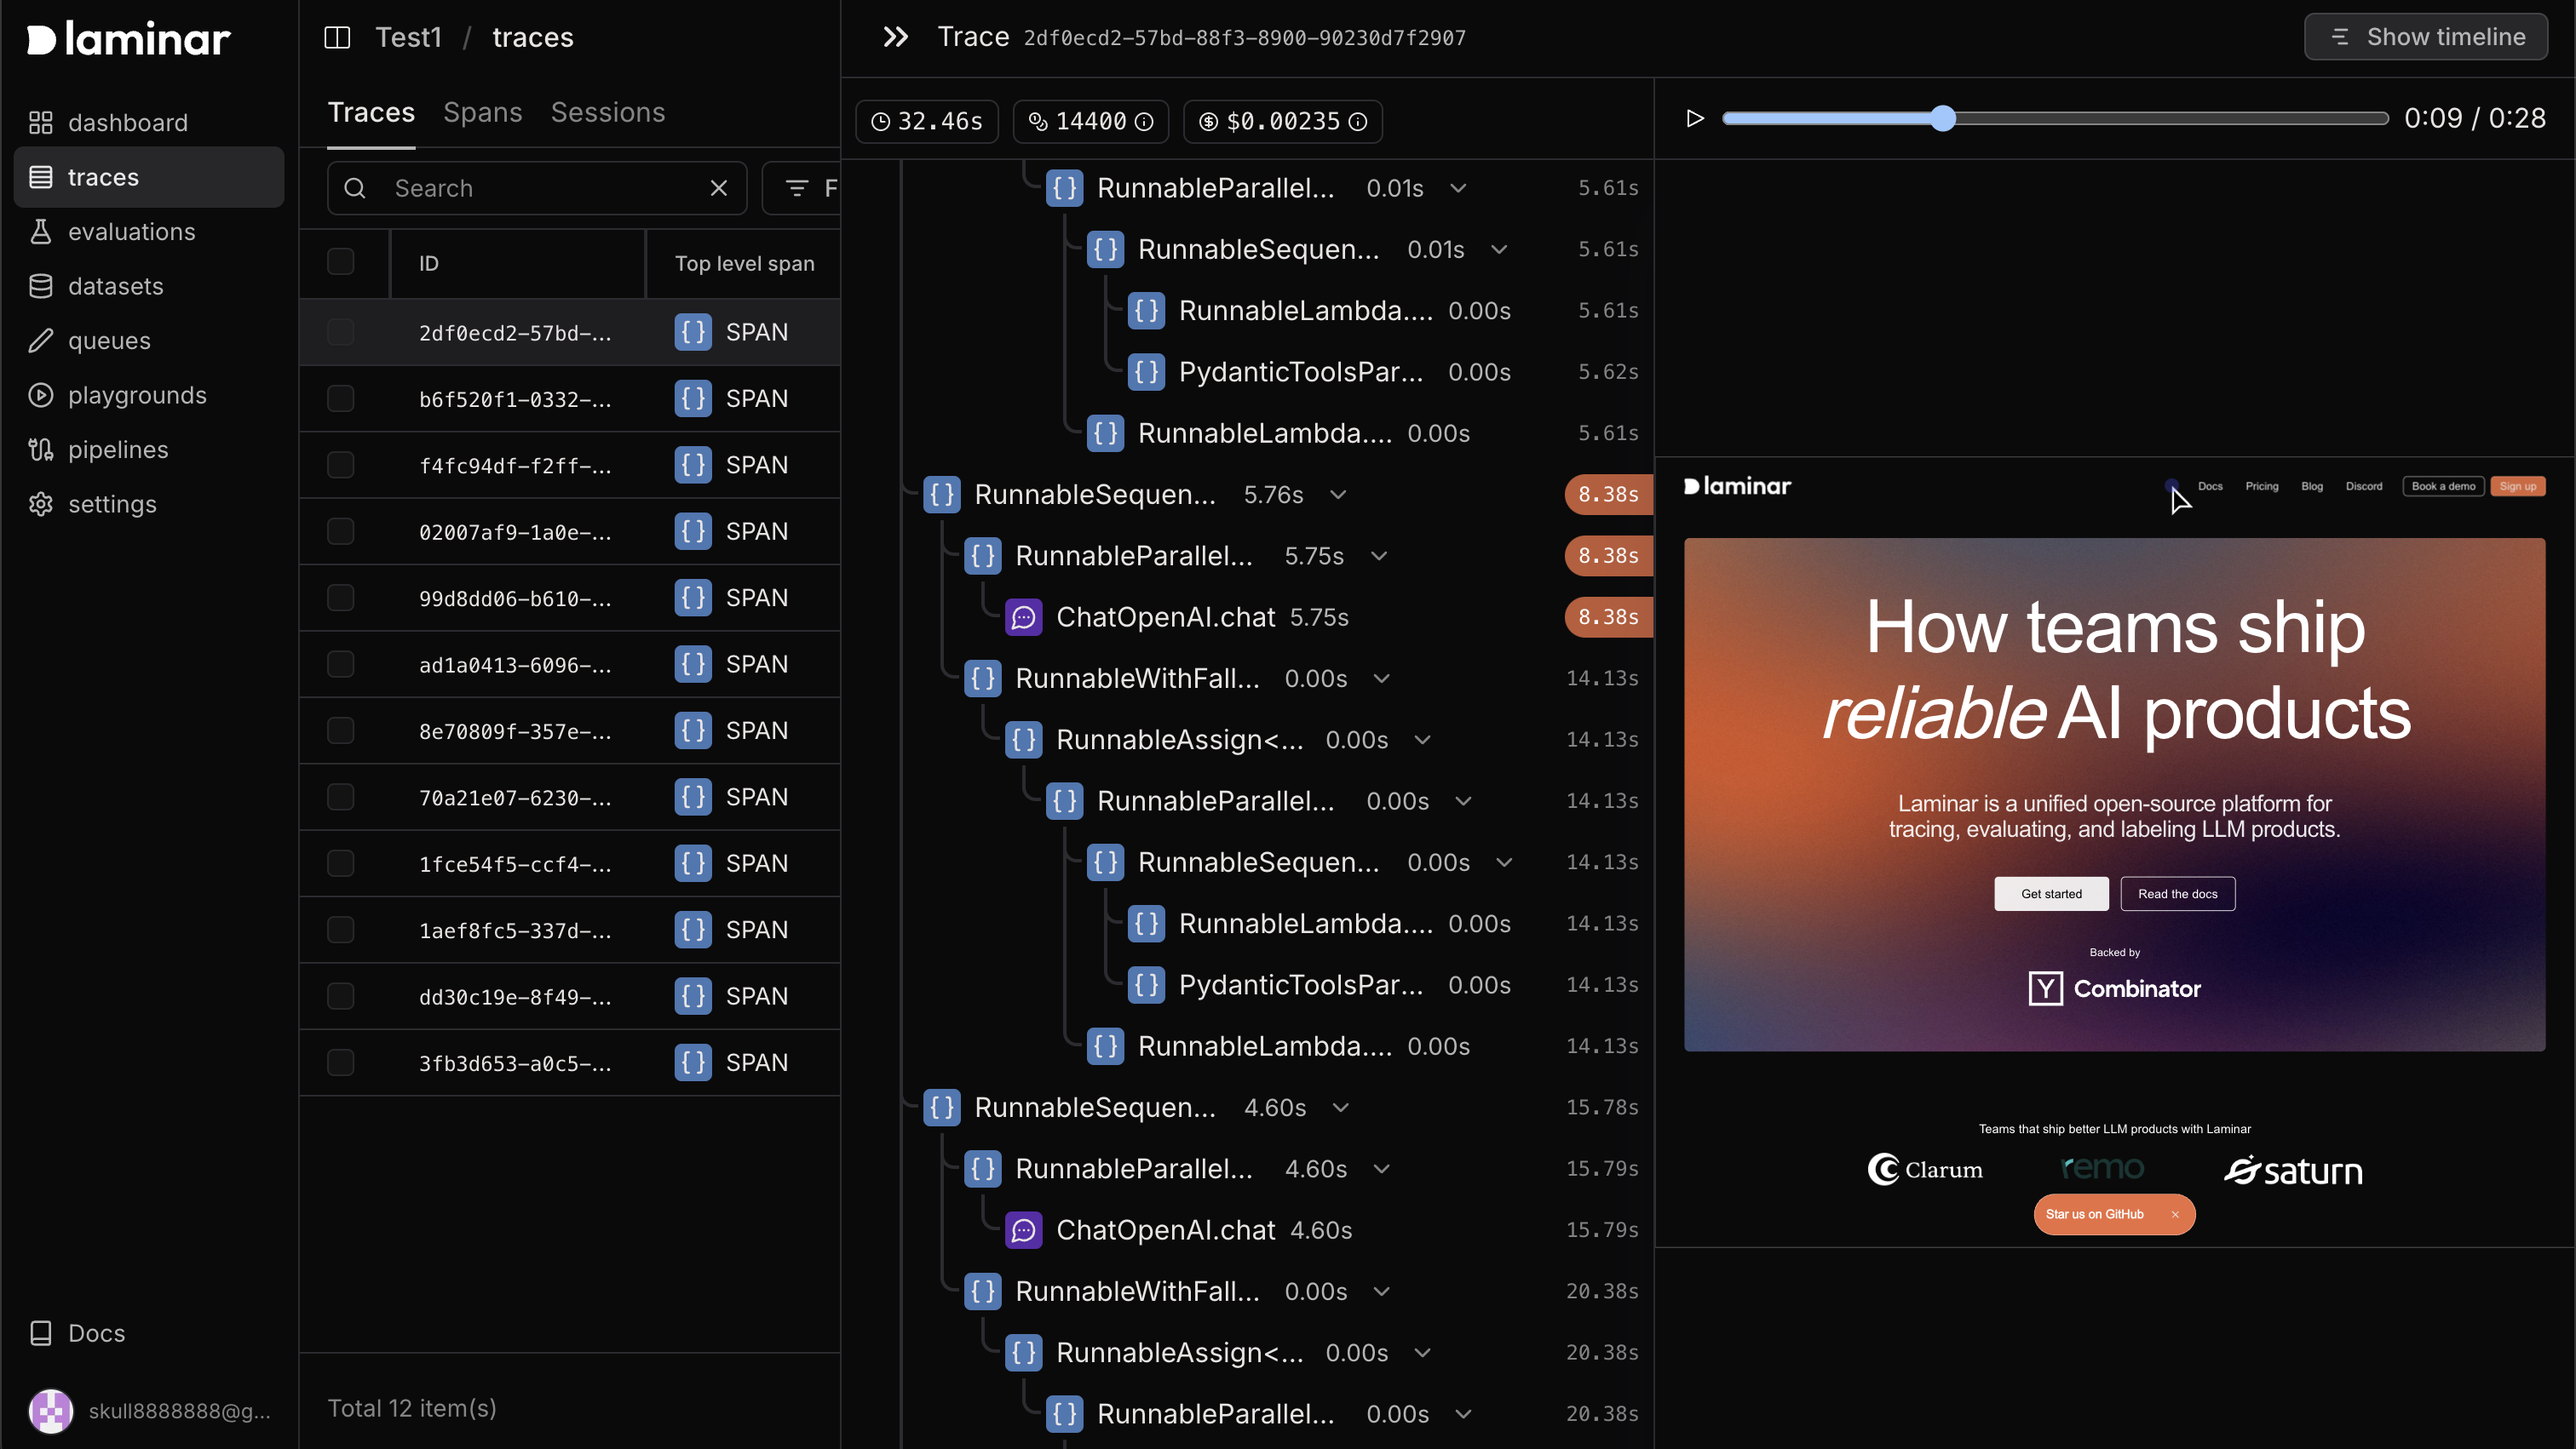
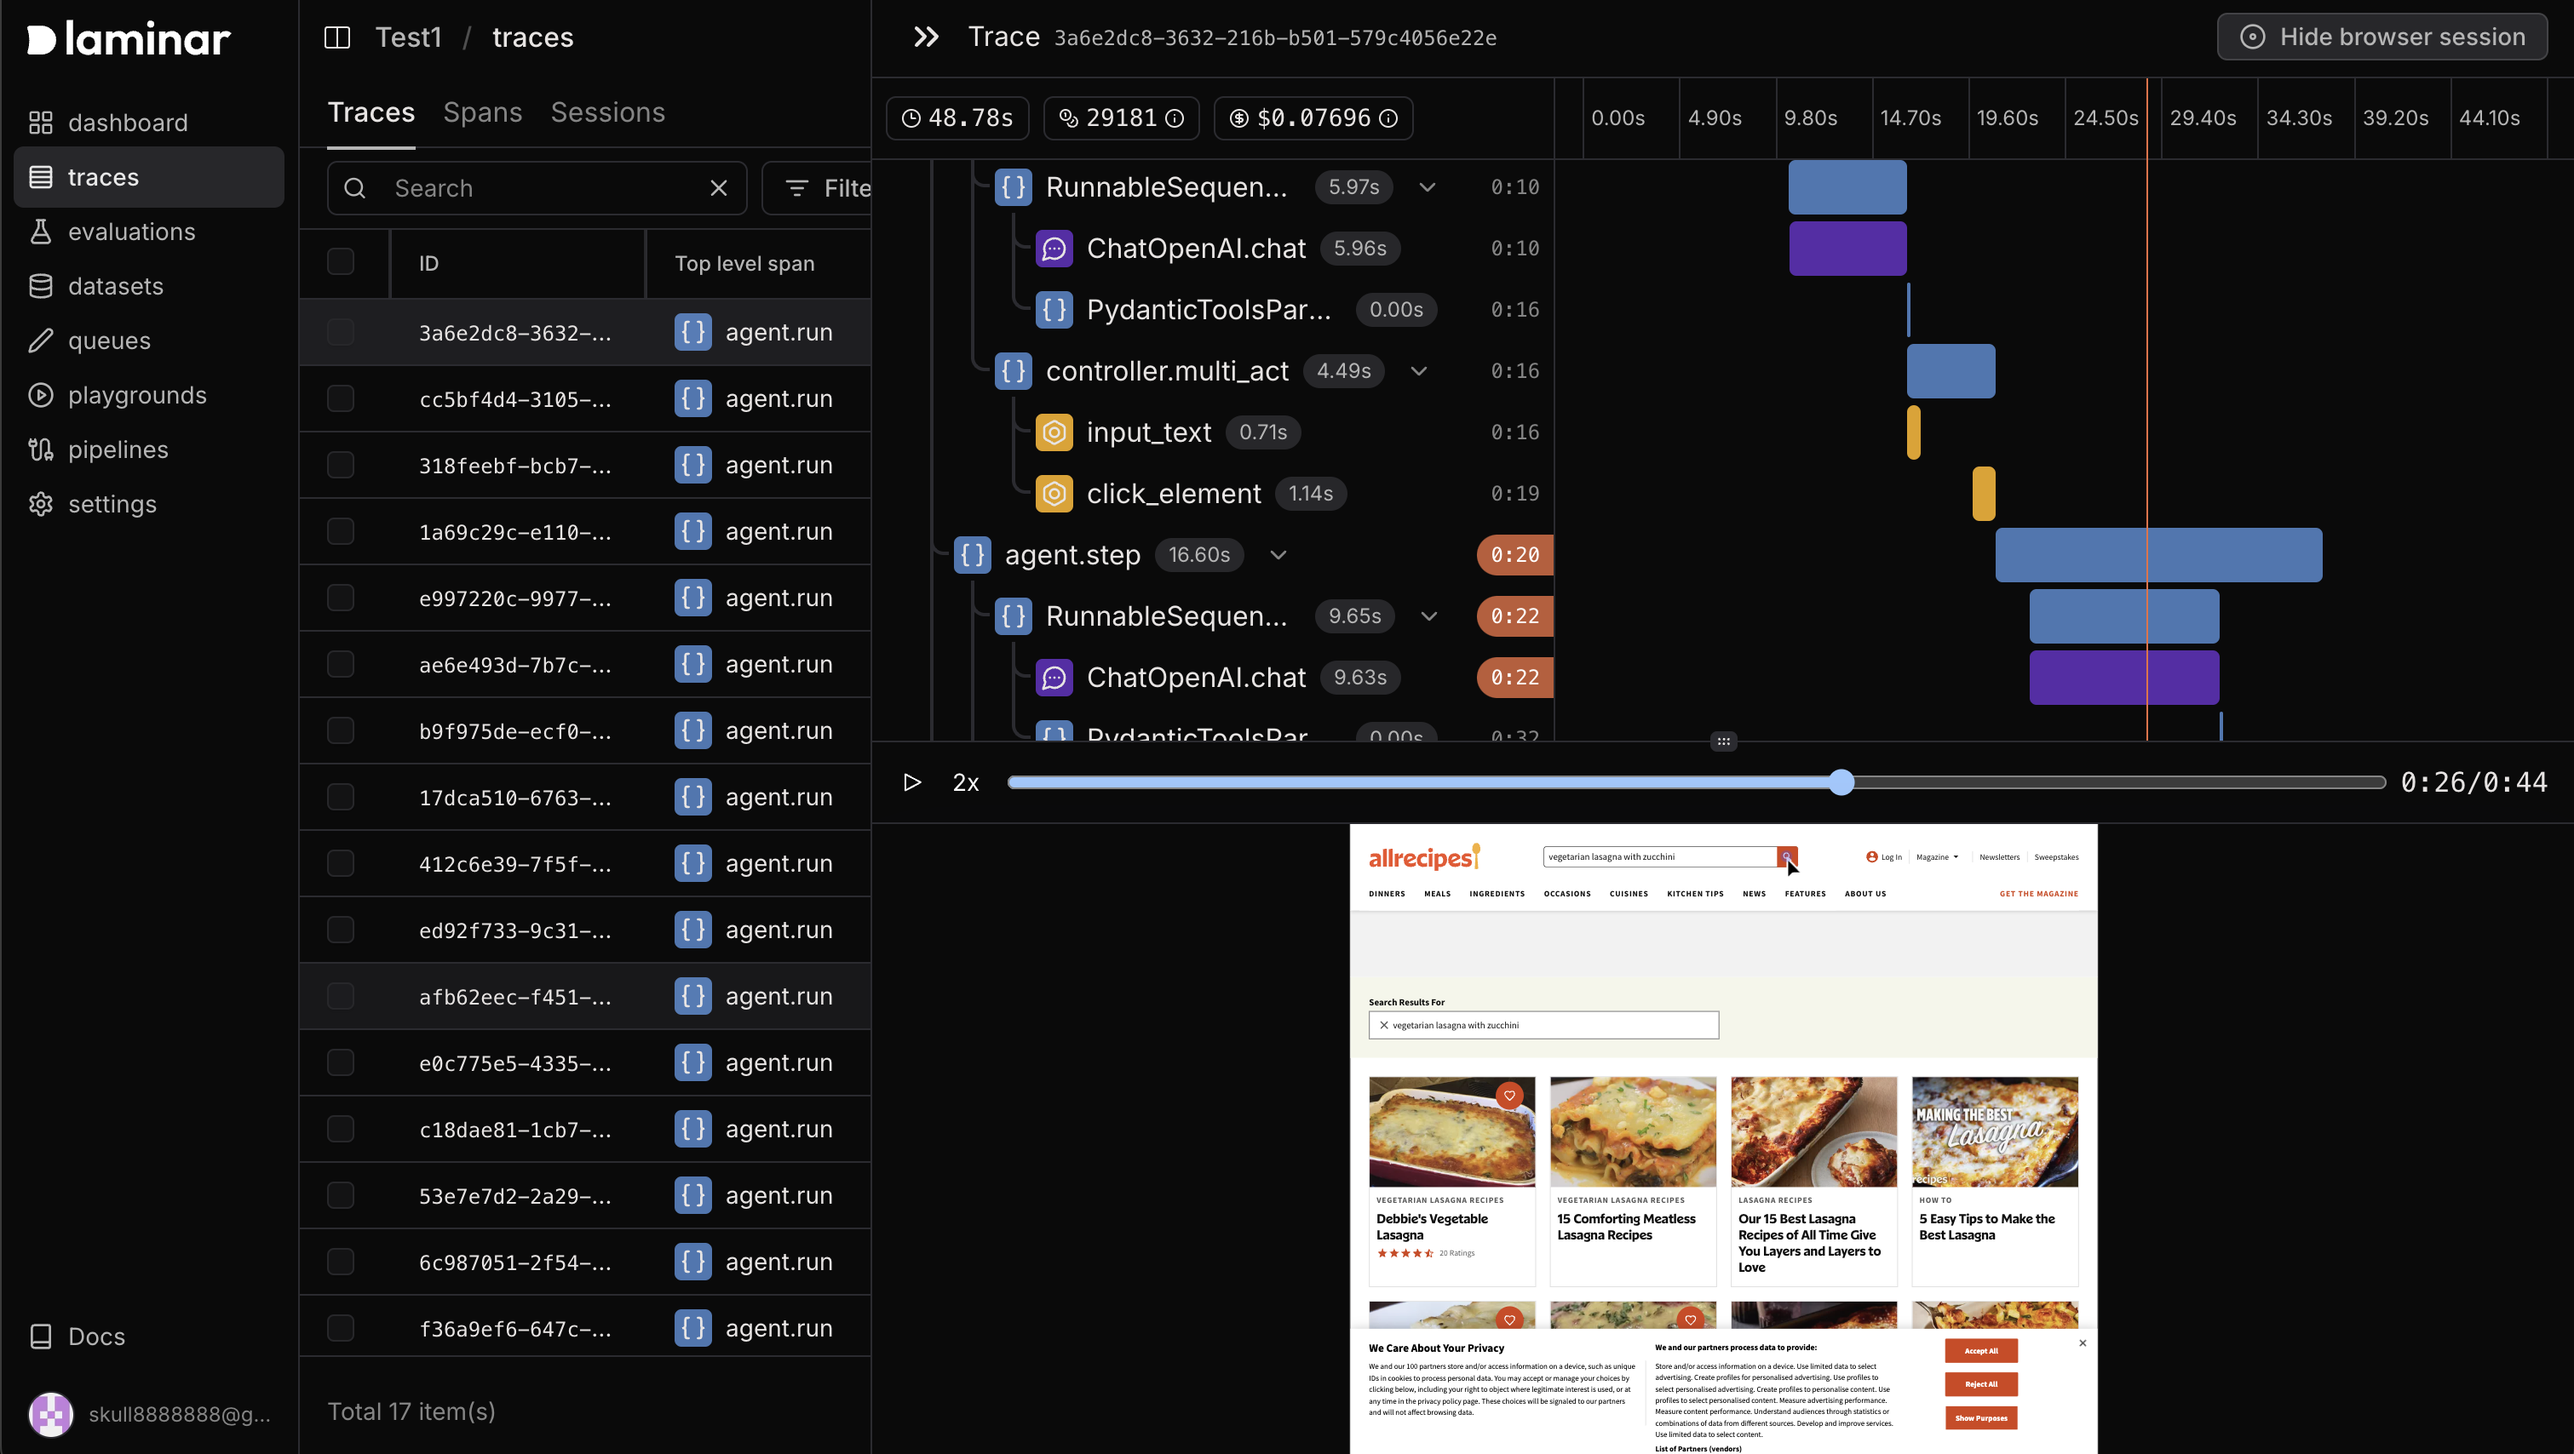
improved observability

diff --git a/browser_use/controller/service.py b/browser_use/controller/service.py
@@ -4,6 +4,7 @@ import logging
 from typing import Callable, Dict, Optional, Type
 
 from langchain_core.prompts import PromptTemplate
+from lmnr import Laminar, observe
 from pydantic import BaseModel
 
 from browser_use.agent.views import ActionModel, ActionResult
@@ -188,7 +189,7 @@ class Controller:
 			if params.amount is not None:
 				await page.evaluate(f'window.scrollBy(0, {params.amount});')
 			else:
-				await page.keyboard.press('PageDown')
+				await page.evaluate('window.scrollBy(0, window.innerHeight);')
 
 			amount = f'{params.amount} pixels' if params.amount is not None else 'one page'
 			msg = f'🔍  Scrolled down the page by {amount}'
@@ -208,7 +209,7 @@ class Controller:
 			if params.amount is not None:
 				await page.evaluate(f'window.scrollBy(0, -{params.amount});')
 			else:
-				await page.keyboard.press('PageUp')
+				await page.evaluate('window.scrollBy(0, -window.innerHeight);')
 
 			amount = f'{params.amount} pixels' if params.amount is not None else 'one page'
 			msg = f'🔍  Scrolled up the page by {amount}'
@@ -439,6 +440,7 @@ class Controller:
 		"""
 		return self.registry.action(description, **kwargs)
 
+	@observe(name='controller.multi_act')
 	@time_execution_async('--multi-act')
 	async def multi_act(
 		self,
@@ -493,17 +495,28 @@ class Controller:
 		sensitive_data: Optional[Dict[str, str]] = None,
 	) -> ActionResult:
 		"""Execute an action"""
+
 		try:
 			for action_name, params in action.model_dump(exclude_unset=True).items():
 				if params is not None:
-					# remove highlights
-					result = await self.registry.execute_action(
-						action_name,
-						params,
-						browser=browser_context,
-						page_extraction_llm=page_extraction_llm,
-						sensitive_data=sensitive_data,
-					)
+					with Laminar.start_as_current_span(
+						name=action_name,
+						input={
+							'action': action_name,
+							'params': params,
+						},
+						span_type='TOOL',
+					):
+						result = await self.registry.execute_action(
+							action_name,
+							params,
+							browser=browser_context,
+							page_extraction_llm=page_extraction_llm,
+							sensitive_data=sensitive_data,
+						)
+
+						Laminar.set_span_output(result)
+
 					if isinstance(result, str):
 						return ActionResult(extracted_content=result)
 					elif isinstance(result, ActionResult):

diff --git a/browser_use/agent/service.py b/browser_use/agent/service.py
@@ -241,6 +241,7 @@ class Agent:
 			raise InterruptedError
 		return False
 
+	@observe(name='agent.step', ignore_output=True, ignore_input=True)
 	@time_execution_async('--step')
 	async def step(self, step_info: Optional[AgentStepInfo] = None) -> None:
 		"""Execute one step of the task"""
@@ -485,7 +486,7 @@ class Agent:
 			)
 		)
 
-	@observe(name='agent.run')
+	@observe(name='agent.run', ignore_output=True)
 	async def run(self, max_steps: int = 100) -> AgentHistoryList:
 		"""Execute the task with maximum number of steps"""
 		try:
